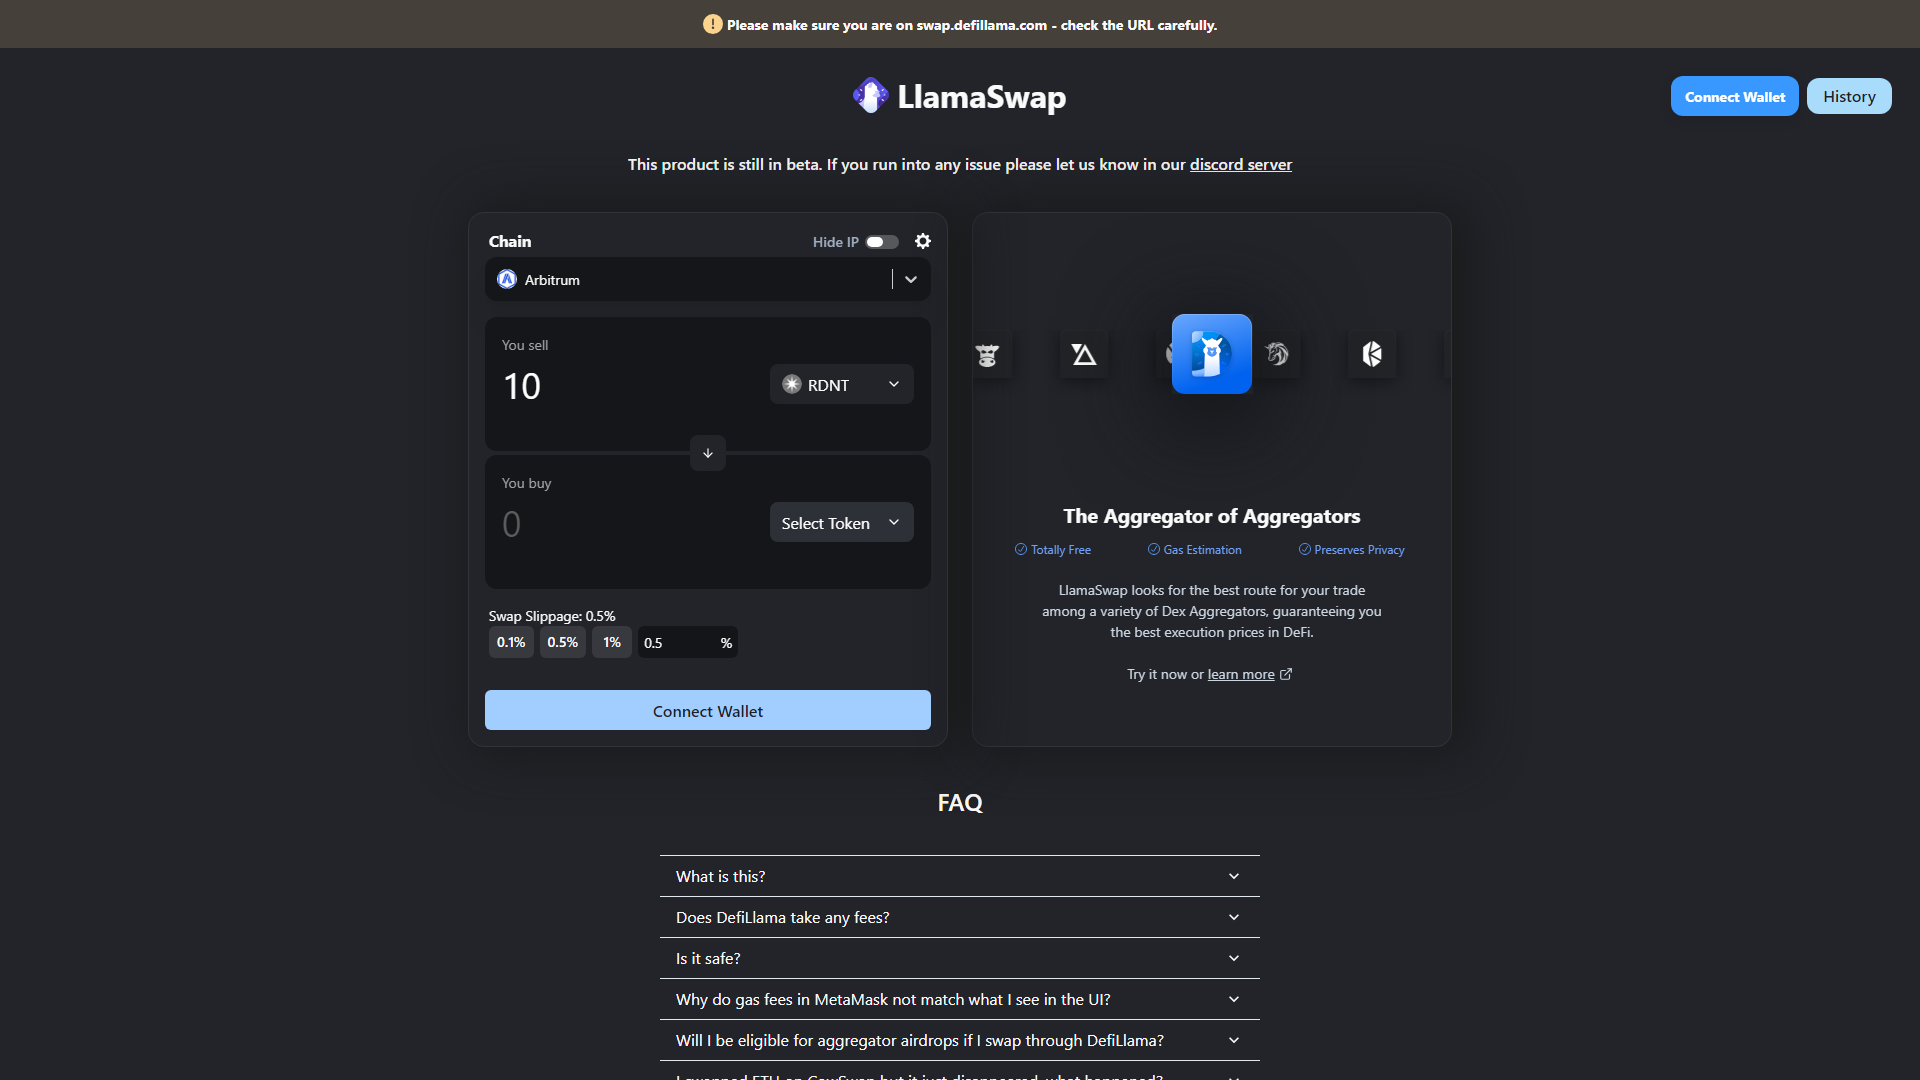
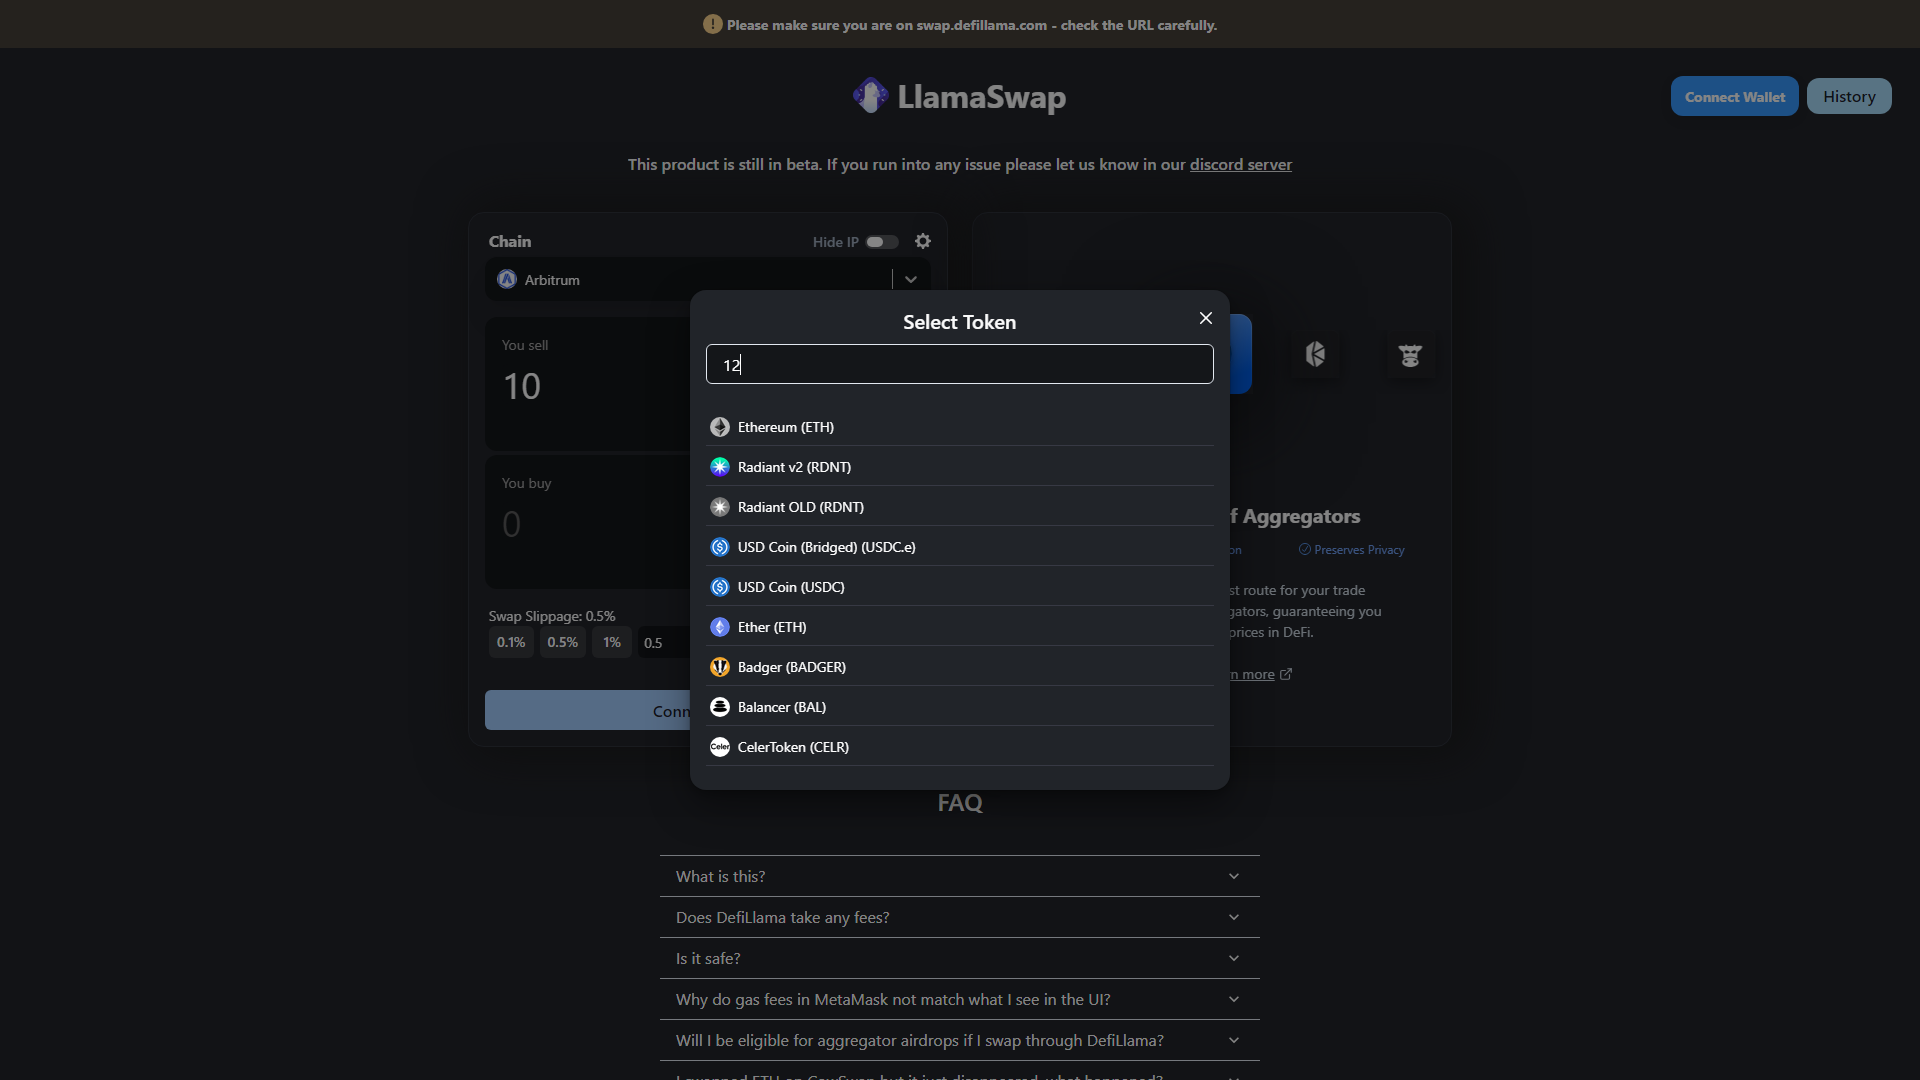
access modal

diff --git a/clickButtonByXpath.js b/clickButtonByXpath.js
@@ -1,6 +1,6 @@
 const checkModalExistence = require('./checkModalExistence');
 
-async function clickButtonByXPath(page, buttonXPath, inputXPath, optionValue) {
+async function clickButtonByXPath(page, buttonXPath, inputValue, optionValue) {
   try {
     await page.waitForXPath(buttonXPath);
     const buttonElement = await page.$x(buttonXPath);
@@ -18,7 +18,9 @@ async function clickButtonByXPath(page, buttonXPath, inputXPath, optionValue) {
         await page.waitForSelector(modalSelector);
         const modalElement = await page.$(modalSelector);
         if (modalElement) {
-          const inputElement = await modalElement.$x(inputXPath);
+            await page.waitForTimeout(3000);
+          const inputElement = await modalElement.$(inputValue);
+          await page.screenshot({ path: 'modals.png' });
           if (inputElement.length > 0) {
             await page.screenshot({ path: 'openmodal.png' });
             await inputElement[0].focus();
@@ -31,16 +33,17 @@ async function clickButtonByXPath(page, buttonXPath, inputXPath, optionValue) {
             console.log(`Selected "${optionValue}" from the dropdown.`);
             await page.screenshot({ path: `${optionValue}.png` });
           } else {
-            throw new Error(`Input element not found for XPath: ${inputXPath}`);
+            console.error(`Input element not found for XPath: ${inputValue}`);
           }
         } else {
-          throw new Error(`Modal element not found for selector: ${modalSelector}`);
+            console.error(`Modal element not found for selector: ${modalSelector}`);
         }
       } else {
         console.error(`Modal element does not exist.`);
       }
     } else {
-      throw new Error(`Button element not found for XPath: ${buttonXPath}`);
+        console.error(`Button element not found for XPath: ${buttonXPath}`);
+      //throw new Error(`Button element not found for XPath: ${buttonXPath}`);
     }
   } catch (error) {
     console.error('An error occurred:', error);

diff --git a/index.js b/index.js
@@ -17,7 +17,7 @@ async function selectOptionFromDropdown(page, dropdownClass, optionValue) {
   } else {
     console.error(`Parent div with class ${dropdownClass} not found.`);
   }
-}
+}  
 
 // async function selectBOptionFromDropdown(page, dropdownClass, optionValue) {
 //   const parentDiv = await page.$(dropdownClass);
@@ -56,13 +56,17 @@ async function selectOptionFromDropdown(page, dropdownClass, optionValue) {
     
     const buttonXPath1 = '/html/body/div[1]/div/div/div[2]/main/div[2]/div[1]/div[1]/div[2]/div[1]/div[1]/button';
     const buttonXPath2 = '/html/body/div[1]/div/div/div[2]/main/div[2]/div[1]/div[1]/div[2]/div[2]/div[1]/button';
-    const inputXpath = '/html/body/div[7]/div[3]/div/section/div[2]/input';
-    const modalXPath = '/html/body/div[7]/div[3]/div';
+    const inputValue = '.chakra-modal__content-container .css-s1d1f4'; // u need to use query selector nad console log bro
+    //*[@id="chakra-modal-:r1j:"]/div[2]/input';
+    //.chakra-input .css-s1d1f4';
+    //const inputValue = '#chakra-modal-\:r1j\: > div:nth-child(2) > input';
+    //const modalXPath = '/html/body/div[7]/div[3]/div';
+    //const modalXPath = '/html/body/div[7]/div[3]/div';
     //await selectBOptionFromDropdown(page,'.css-1k491an', 'WBTC'); // Sell Token Selection
     //vendannu thonunnu    await page.type("#usernameSignIn", process.env.EXPLARA_EMAIL);
     //await selectBOptionFromDropdown(page,'.css-' , 'WBTC'); // Buy Token Selection
-    await clickButtonByXPath(page, buttonXPath1, inputXpath, 'WTBC');
-    await clickButtonByXPath(page, buttonXPath2, inputXpath, 'USDC');
+    await clickButtonByXPath(page, buttonXPath1, inputValue, 'WTBC');
+    await clickButtonByXPath(page, buttonXPath2, inputValue, 'USDC');
     await page.type(".css-79elbk",'12'); // being written to eth inte saanam, ithum xpath vekkendi avrum
 // cater to ur usecase
 // await page.waitForNavigation();
